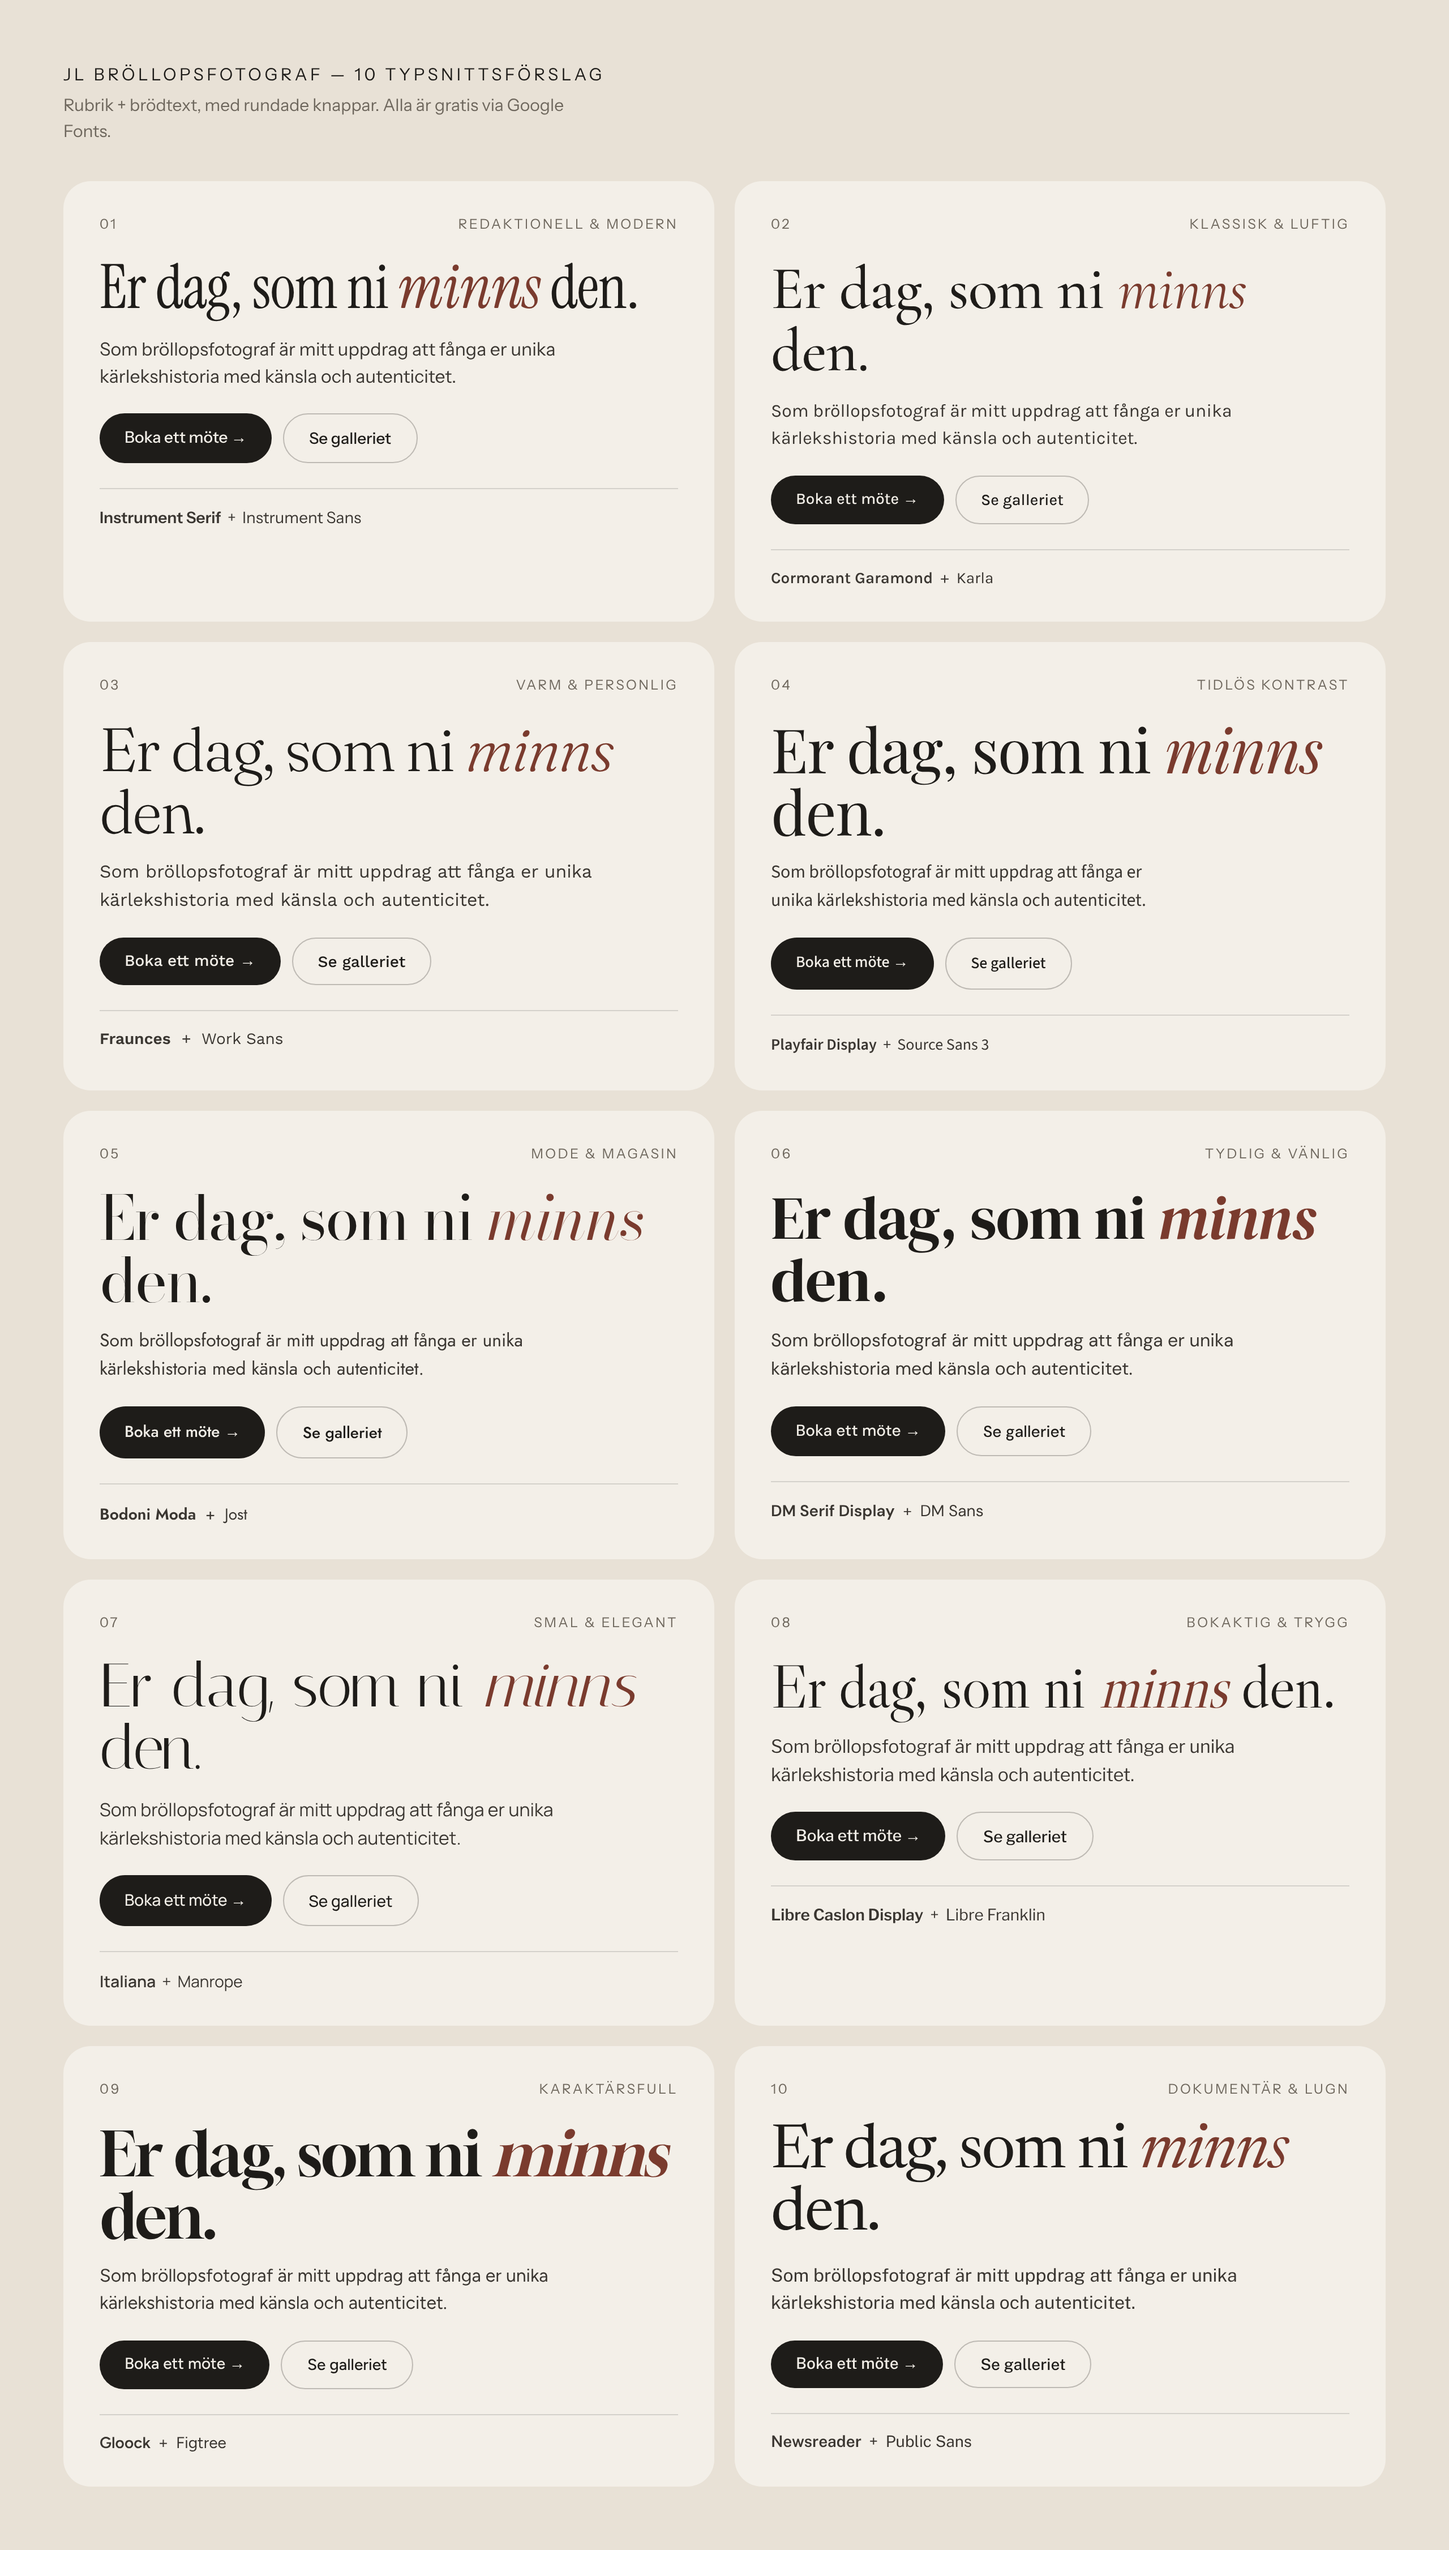
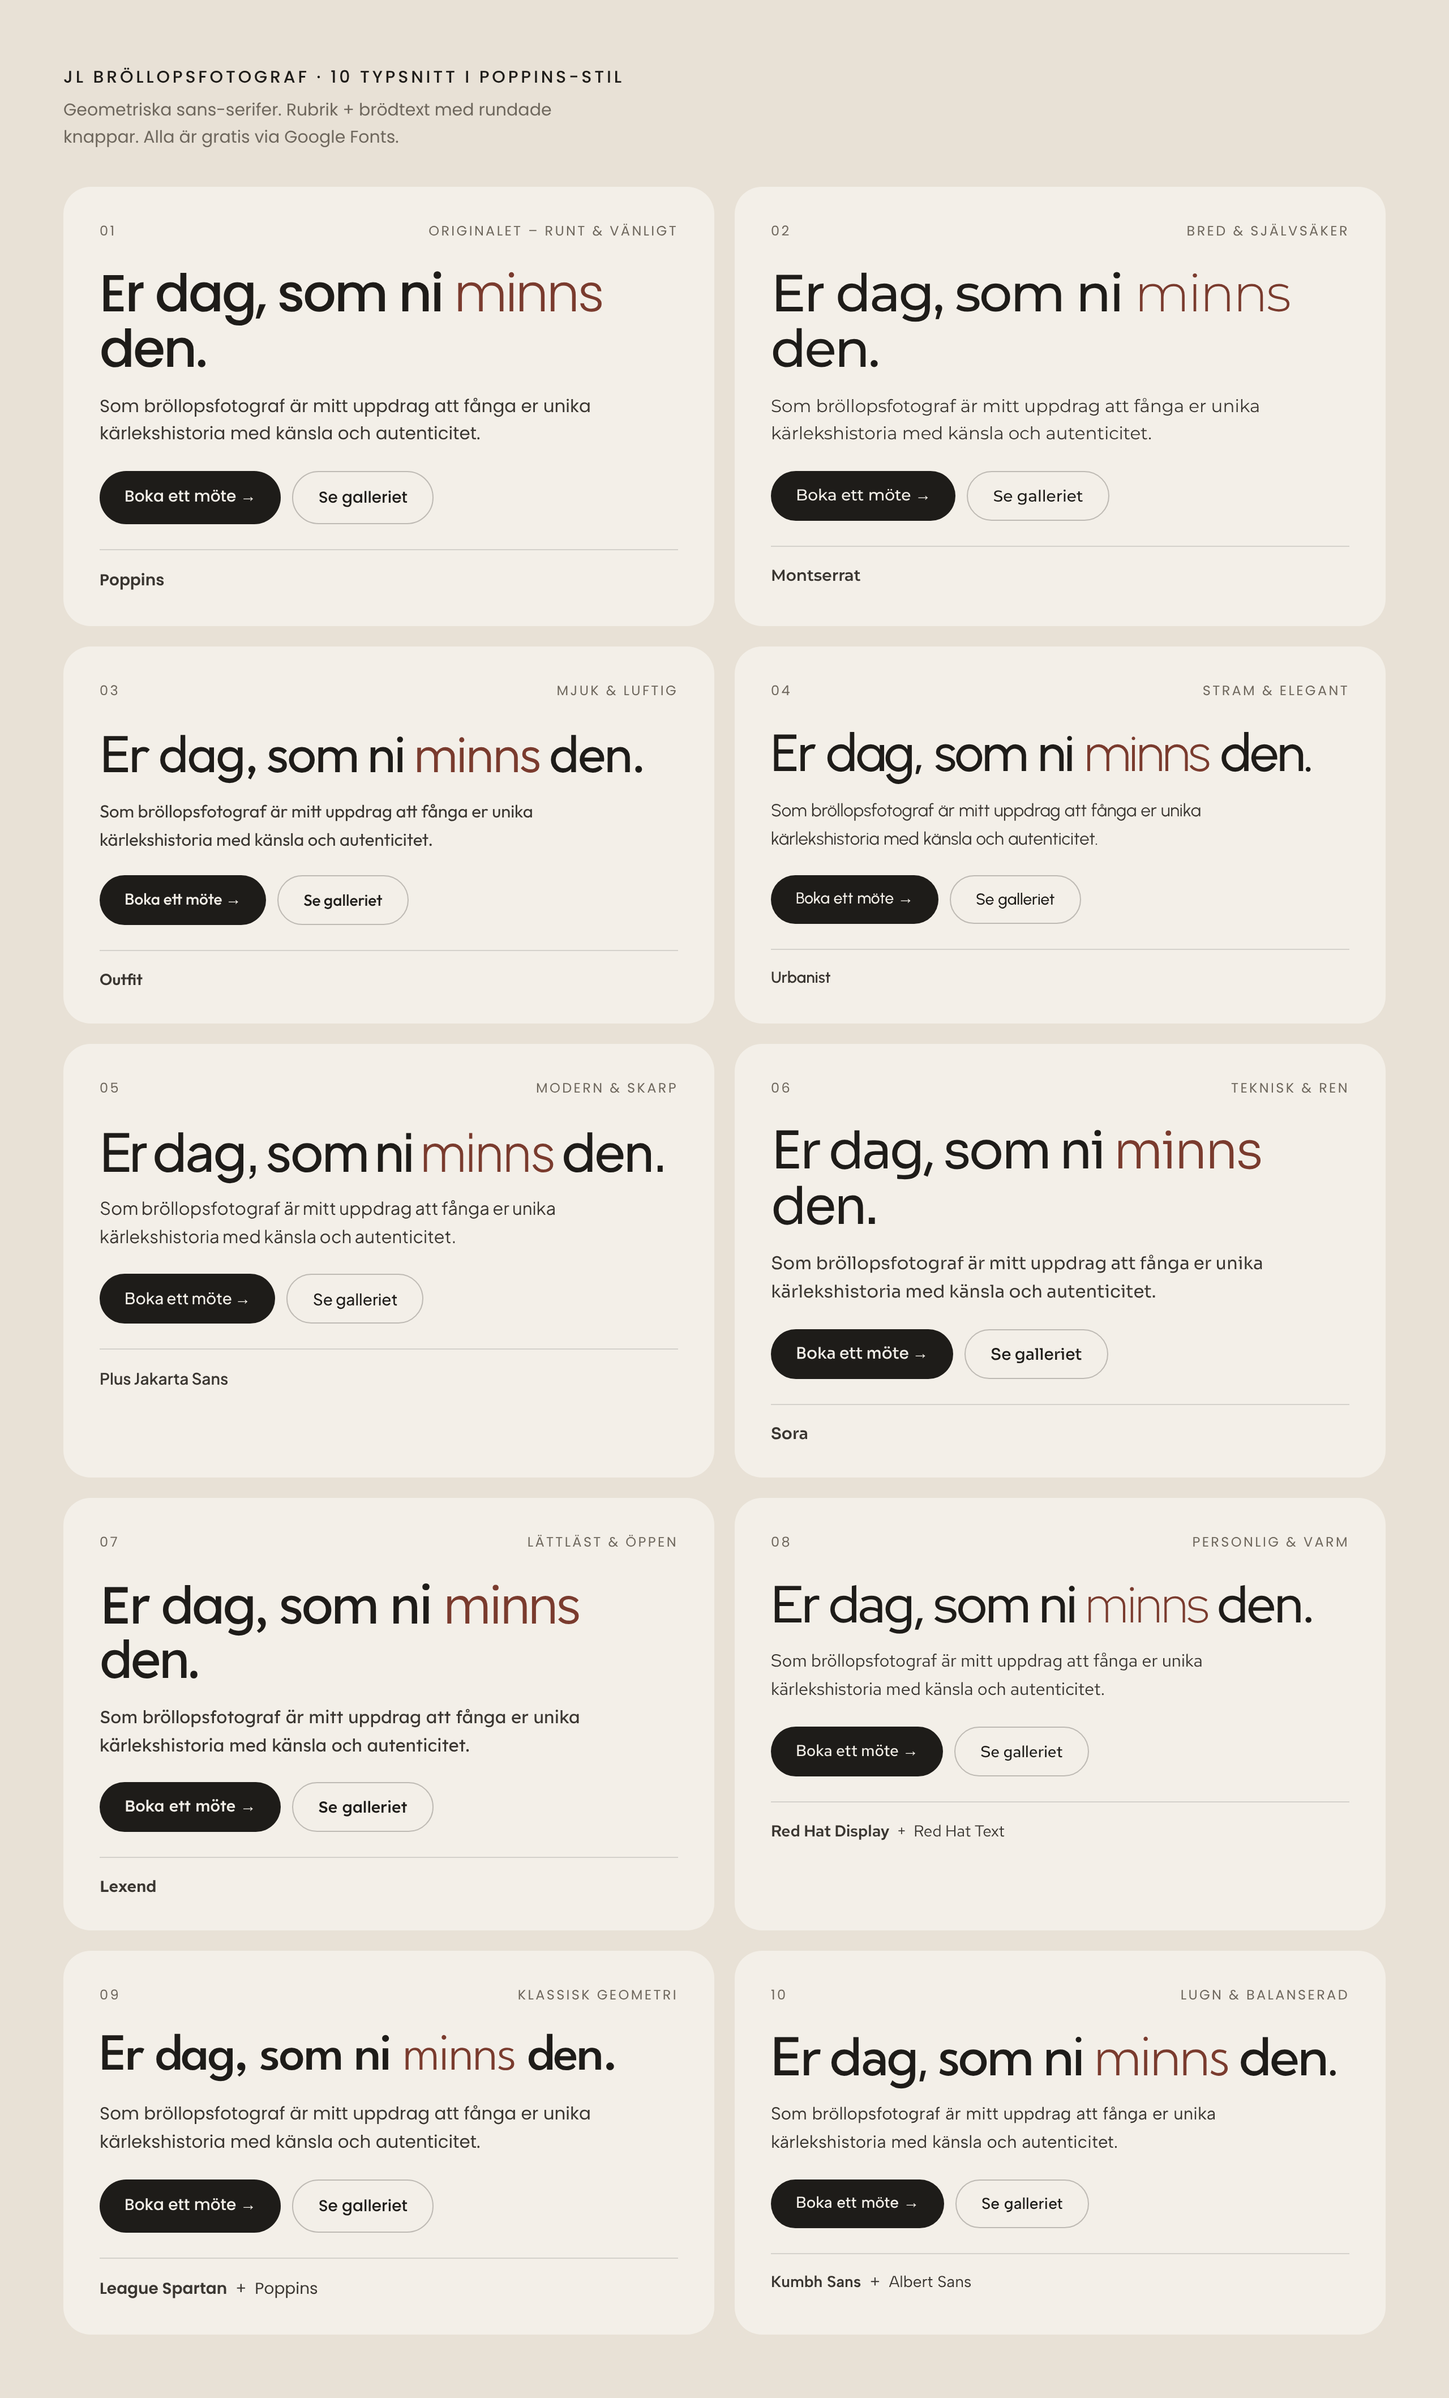
Byt till typsnitt i Poppins-stil (10 geometriska sans-serifer)
Claude-Session: https://claude.ai/code/session_013ZhM76BT2mSAyXbD43A4oG

diff --git a/jl-brollopsfotograf/index.html b/jl-brollopsfotograf/index.html
@@ -8,7 +8,7 @@
 <link rel="preconnect" href="https://fonts.googleapis.com">
 <link rel="preconnect" href="https://fonts.gstatic.com" crossorigin>
 <link rel="preconnect" href="https://images.squarespace-cdn.com">
-<link href="https://fonts.googleapis.com/css2?family=Instrument+Serif:ital@0;1&family=Instrument+Sans:wght@400;500;600&family=Cormorant+Garamond:ital,wght@0,400;0,500;1,400&family=Karla:wght@400;500;600&family=Fraunces:ital,opsz,wght@0,9..144,300;0,9..144,400;1,9..144,300;1,9..144,400&family=Work+Sans:wght@400;500;600&family=Playfair+Display:ital,wght@0,400;0,500;1,400&family=Source+Sans+3:wght@400;500;600&family=Bodoni+Moda:ital,opsz,wght@0,6..96,400;1,6..96,400&family=Jost:wght@400;500;600&family=DM+Serif+Display:ital@0;1&family=DM+Sans:opsz,wght@9..40,400;9..40,500;9..40,600&family=Italiana&family=Manrope:wght@400;500;600&family=Libre+Caslon+Display&family=Libre+Franklin:wght@400;500;600&family=Gloock&family=Figtree:wght@400;500;600&family=Newsreader:ital,opsz,wght@0,6..72,400;1,6..72,400&family=Public+Sans:wght@400;500;600&display=swap" rel="stylesheet">
+<link href="https://fonts.googleapis.com/css2?family=Poppins:wght@300;400;500;600&amp;family=Montserrat:wght@300;400;500;600&amp;family=Outfit:wght@300;400;500;600&amp;family=Urbanist:wght@300;400;500;600&amp;family=Plus+Jakarta+Sans:wght@300;400;500;600&amp;family=Sora:wght@300;400;500;600&amp;family=Lexend:wght@300;400;500;600&amp;family=Red+Hat+Display:wght@300;400;500;600&amp;family=Red+Hat+Text:wght@300;400;500;600&amp;family=League+Spartan:wght@300;400;500;600&amp;family=Kumbh+Sans:wght@300;400;500;600&amp;family=Albert+Sans:wght@300;400;500;600&amp;display=swap" rel="stylesheet">
 <style>
 :root{
   --paper:#F3EFE8;
@@ -19,10 +19,11 @@
   --accent:#7A3B2E;
   --accent-ink:#FBF6F0;
   --line:rgba(30,28,25,.14);
-  --f-display:"Instrument Serif", Georgia, serif;
-  --f-body:"Instrument Sans", system-ui, sans-serif;
-  --d-weight:400;
-  --d-track:-0.01em;
+  --f-display:"Poppins", system-ui, sans-serif;
+  --f-body:"Poppins", system-ui, sans-serif;
+  --d-weight:500;
+  --d-track:-0.035em;
+  --em-weight:300;
   --gutter:clamp(16px,4vw,56px);
   --max:1320px;
 }
@@ -33,8 +34,8 @@ img,video{display:block;max-width:100%}
 a{color:inherit}
 ::selection{background:var(--accent);color:var(--accent-ink)}
 .wrap{max-width:var(--max);margin:0 auto;padding:0 var(--gutter)}
-.display{font-family:var(--f-display);font-weight:var(--d-weight);letter-spacing:var(--d-track);line-height:1.02;margin:0}
-.display em{font-style:italic;color:var(--accent)}
+.display{font-family:var(--f-display);font-weight:var(--d-weight);letter-spacing:var(--d-track);line-height:1.04;margin:0}
+.display em{font-style:normal;font-weight:var(--em-weight);color:var(--accent)}
 .eyebrow{font-size:12px;letter-spacing:.18em;text-transform:uppercase;color:var(--muted);font-weight:500;display:flex;gap:14px;align-items:center;margin:0 0 28px}
 .eyebrow b{font-weight:600;color:var(--ink);font-variant-numeric:tabular-nums}
 .eyebrow::after{content:"";height:1px;flex:0 0 48px;background:currentColor;opacity:.5}
@@ -63,7 +64,7 @@ a{color:inherit}
 .hdr.is-solid{background:rgba(243,239,232,.94);backdrop-filter:blur(10px);-webkit-backdrop-filter:blur(10px);color:var(--ink);box-shadow:0 1px 0 var(--line)}
 .hdr__in{display:flex;align-items:center;justify-content:space-between;height:76px;gap:24px}
 .logo{display:flex;align-items:baseline;gap:12px;text-decoration:none}
-.logo__mark{font-family:var(--f-display);font-size:30px;line-height:1;letter-spacing:-.02em}
+.logo__mark{font-family:var(--f-display);font-weight:600;font-size:26px;line-height:1;letter-spacing:-.04em}
 .logo__name{font-size:12px;letter-spacing:.16em;text-transform:uppercase;opacity:.85}
 .nav{display:flex;gap:30px;font-size:14.5px}
 .nav a{text-decoration:none;opacity:.88;position:relative;padding:4px 0}
@@ -81,7 +82,7 @@ a{color:inherit}
 .mnav.open{transform:none;visibility:visible;transition:transform .45s cubic-bezier(.7,0,.2,1)}
 .mnav__top{display:flex;justify-content:space-between;align-items:center;height:52px}
 .mnav nav{display:flex;flex-direction:column;margin-top:8vh}
-.mnav nav a{font-family:var(--f-display);font-size:44px;line-height:1.25;text-decoration:none}
+.mnav nav a{font-family:var(--f-display);font-weight:500;letter-spacing:-.03em;font-size:40px;line-height:1.3;text-decoration:none}
 .mnav .btn{margin-top:auto;align-self:flex-start}
 
 /* ---------- Hero ---------- */
@@ -92,7 +93,7 @@ a{color:inherit}
 .hero__meta{display:flex;gap:18px;flex-wrap:wrap;font-size:12.5px;letter-spacing:.16em;text-transform:uppercase;opacity:.9;margin-bottom:22px}
 .hero__meta span+span::before{content:"·";margin-right:18px;opacity:.7}
 @media (max-width:700px){.hero__meta{gap:6px 0;flex-direction:column;letter-spacing:.14em}.hero__meta span+span::before{content:none}.hero__meta span:first-child{display:none}}
-.hero h1{font-size:clamp(46px,8.4vw,128px);max-width:12ch}
+.hero h1{font-size:clamp(42px,7.4vw,112px);max-width:12ch}
 .hero h1 em{color:inherit}
 .hero__row{display:flex;justify-content:space-between;align-items:flex-end;gap:32px;flex-wrap:wrap;margin-top:34px}
 .hero__cta{display:flex;gap:12px;flex-wrap:wrap}
@@ -104,7 +105,7 @@ a{color:inherit}
 /* ---------- Intro ---------- */
 .sec{padding:clamp(80px,12vw,160px) 0}
 .intro__grid{display:grid;grid-template-columns:1.05fr 1fr;gap:clamp(40px,7vw,110px);align-items:start}
-.intro h2{font-size:clamp(38px,5.2vw,76px)}
+.intro h2{font-size:clamp(34px,4.3vw,62px)}
 .intro__lead{font-size:clamp(19px,1.6vw,22px);line-height:1.55;color:var(--ink-2);margin:34px 0 0;max-width:34em}
 .intro__body p{margin:0 0 1.1em;color:var(--ink-2)}
 .intro__body p:first-child::first-letter{font-family:var(--f-display);float:left;font-size:4.2em;line-height:.82;padding:.06em .1em 0 0;color:var(--accent)}
@@ -196,7 +197,7 @@ a{color:inherit}
 .rev__track::-webkit-scrollbar{display:none}
 .rev__track{-webkit-mask-image:linear-gradient(90deg,#000 85%,transparent);mask-image:linear-gradient(90deg,#000 85%,transparent)}
 .review{scroll-snap-align:start;margin:0;display:flex;flex-direction:column}
-.review blockquote{margin:0;font-family:var(--f-display);font-size:clamp(24px,2.3vw,32px);line-height:1.28}
+.review blockquote{margin:0;font-family:var(--f-display);font-weight:400;letter-spacing:-0.015em;font-size:clamp(20px,1.9vw,27px);line-height:1.4}
 .review blockquote::before{content:"“";display:block;font-size:3.2em;line-height:.7;color:var(--accent);margin-bottom:10px}
 .review figcaption{margin-top:24px;font-size:14px;letter-spacing:.06em;color:var(--muted);display:flex;align-items:center;gap:12px}
 .review figcaption::before{content:"";width:28px;height:1px;background:currentColor}
@@ -262,8 +263,8 @@ a{color:inherit}
 .fopt:hover{border-color:var(--ink)}
 .fopt[aria-pressed="true"]{border-color:var(--accent);box-shadow:0 0 0 1px var(--accent) inset}
 .fopt__n{font-size:12px;color:var(--muted);font-variant-numeric:tabular-nums;grid-row:span 2}
-.fopt__sample{font-size:32px;line-height:1.05}
-.fopt__sample em{color:var(--accent)}
+.fopt__sample{font-size:30px;line-height:1.1}
+.fopt__sample em{color:var(--accent);font-style:normal;font-weight:300}
 .fopt__meta{font-size:12.5px;color:var(--muted);display:flex;justify-content:space-between;gap:10px;flex-wrap:wrap}
 .fopt__meta b{font-weight:500;color:var(--ink-2)}
 .fp__keys{font-size:12px;color:var(--muted);margin-top:14px}
@@ -384,17 +385,17 @@ a{color:inherit}
       <h2 class="display reveal">Tre steg, <em>noll</em> stress.</h2>
       <div class="proc__grid">
         <div class="step reveal">
-          <span class="step__n">i.</span>
+          <span class="step__n">01</span>
           <h3>Vi ses och pratar</h3>
           <p>Helst ansikte mot ansikte – jag kommer vara nära er hela dagen, så det är fint att lära känna varandra. Går det inte tar vi mötet digitalt. Jag tar gärna med ett album så ni kan känna på material och färger.</p>
         </div>
         <div class="step reveal">
-          <span class="step__n">ii.</span>
+          <span class="step__n">02</span>
           <h3>Er bröllopsdag</h3>
           <p>Jag gör vad som krävs för bilden – jag har tappat en kamera från ett träd och förlorat en blixt i havet. Därför har jag alltid backup-utrustning med mig. Regnar det hittar vi vackra platser inomhus.</p>
         </div>
         <div class="step reveal">
-          <span class="step__n">iii.</span>
+          <span class="step__n">03</span>
           <h3>Ni får alla bilder</h3>
           <p>Några smakprov inom en vecka, resten efter 3–4 veckor. Ni får <em>alla</em> bilder från dagen, plus ett urval redigerade i högsta kvalitet – utskrivbara ända upp till A0.</p>
         </div>
@@ -657,16 +658,16 @@ document.querySelectorAll('.reveal').forEach(el=>io.observe(el));
 
 /* ---------- Font picker ---------- */
 const FONTS=[
-  {d:'Instrument Serif',b:'Instrument Sans',note:'Redaktionell & modern',w:400,t:'-0.01em'},
-  {d:'Cormorant Garamond',b:'Karla',note:'Klassisk & luftig',w:500,t:'-0.01em'},
-  {d:'Fraunces',b:'Work Sans',note:'Varm & personlig',w:300,t:'-0.02em'},
-  {d:'Playfair Display',b:'Source Sans 3',note:'Tidlös kontrast',w:400,t:'-0.015em'},
-  {d:'Bodoni Moda',b:'Jost',note:'Mode & magasin',w:400,t:'-0.02em'},
-  {d:'DM Serif Display',b:'DM Sans',note:'Tydlig & vänlig',w:400,t:'-0.01em'},
-  {d:'Italiana',b:'Manrope',note:'Smal & elegant',w:400,t:'0em'},
-  {d:'Libre Caslon Display',b:'Libre Franklin',note:'Bokaktig & trygg',w:400,t:'-0.01em'},
-  {d:'Gloock',b:'Figtree',note:'Karaktärsfull',w:400,t:'-0.02em'},
-  {d:'Newsreader',b:'Public Sans',note:'Dokumentär & lugn',w:400,t:'-0.02em'},
+  {d:'Poppins',b:'Poppins',note:'Originalet – runt & vänligt',w:500,t:'-0.035em'},
+  {d:'Montserrat',b:'Montserrat',note:'Bred & självsäker',w:500,t:'-0.035em'},
+  {d:'Outfit',b:'Outfit',note:'Mjuk & luftig',w:400,t:'-0.03em'},
+  {d:'Urbanist',b:'Urbanist',note:'Stram & elegant',w:500,t:'-0.03em'},
+  {d:'Plus Jakarta Sans',b:'Plus Jakarta Sans',note:'Modern & skarp',w:500,t:'-0.04em'},
+  {d:'Sora',b:'Sora',note:'Teknisk & ren',w:400,t:'-0.045em'},
+  {d:'Lexend',b:'Lexend',note:'Lättläst & öppen',w:400,t:'-0.04em'},
+  {d:'Red Hat Display',b:'Red Hat Text',note:'Personlig & varm',w:500,t:'-0.03em'},
+  {d:'League Spartan',b:'Poppins',note:'Klassisk geometri',w:500,t:'-0.03em'},
+  {d:'Kumbh Sans',b:'Albert Sans',note:'Lugn & balanserad',w:500,t:'-0.035em'},
 ];
 const fpList=document.getElementById('fpList'),fp=document.getElementById('fp'),fpT=document.getElementById('fpToggle'),fpN=document.getElementById('fpN');
 let fi=0;
@@ -679,18 +680,18 @@ FONTS.forEach((f,i)=>{
 });
 function applyFont(i){
   fi=(i+FONTS.length)%FONTS.length;const f=FONTS[fi],r=document.documentElement.style;
-  r.setProperty('--f-display',`"${f.d}", Georgia, serif`);r.setProperty('--f-body',`"${f.b}", system-ui, sans-serif`);
+  r.setProperty('--f-display',`"${f.d}", system-ui, sans-serif`);r.setProperty('--f-body',`"${f.b}", system-ui, sans-serif`);
   r.setProperty('--d-weight',f.w);r.setProperty('--d-track',f.t);
   fpN.textContent=(fi+1)+'/10';
   fpList.querySelectorAll('.fopt').forEach((b,k)=>b.setAttribute('aria-pressed',k===fi));
-  try{localStorage.setItem('jl-font',fi)}catch(e){}
+  try{localStorage.setItem('jl-font-sans',fi)}catch(e){}
   try{const u=new URL(location.href);u.searchParams.set('font',fi+1);history.replaceState(null,'',u)}catch(e){}
 }
 const setFp=o=>{fp.classList.toggle('open',o);fpT.setAttribute('aria-expanded',o)};
 fpT.onclick=()=>setFp(!fp.classList.contains('open'));
 document.getElementById('fpClose').onclick=()=>setFp(false);
 let start=0;
-try{const q=new URLSearchParams(location.search).get('font');if(q)start=parseInt(q,10)-1;else{const s=localStorage.getItem('jl-font');if(s!==null)start=+s}}catch(e){}
+try{const q=new URLSearchParams(location.search).get('font');if(q)start=parseInt(q,10)-1;else{const s=localStorage.getItem('jl-font-sans');if(s!==null)start=+s}}catch(e){}
 applyFont(isNaN(start)?0:start);
 
 /* ---------- Keys ---------- */
